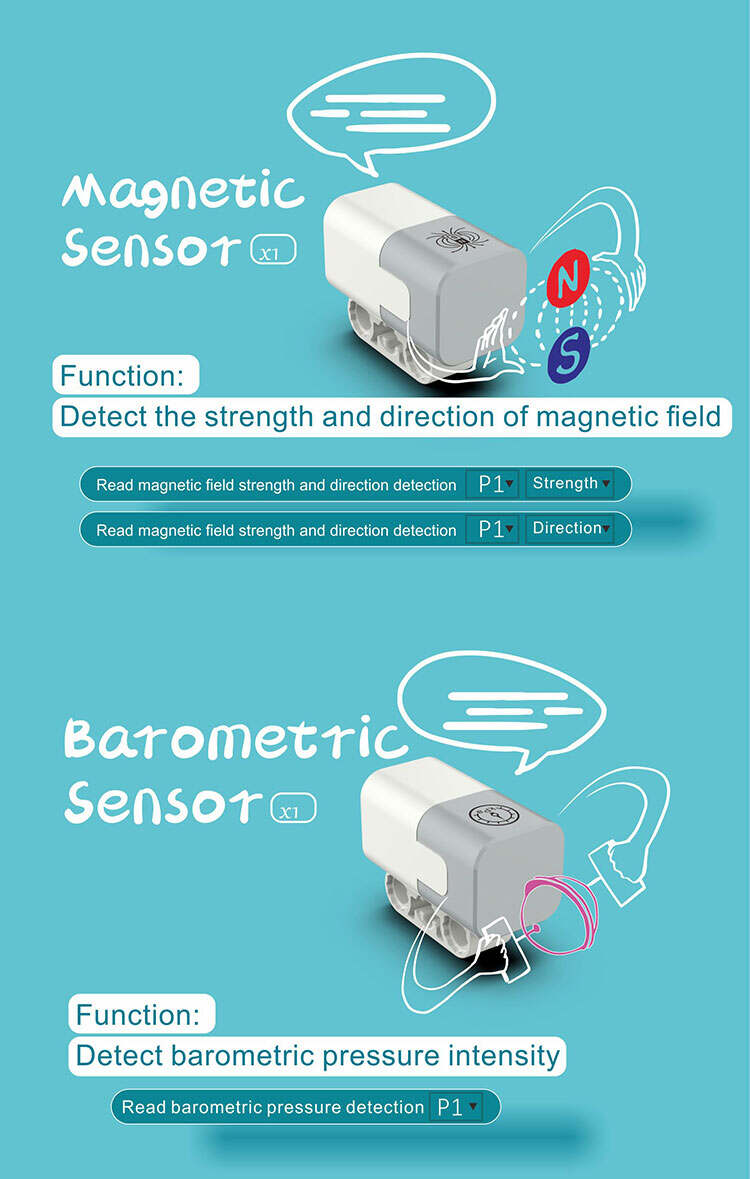
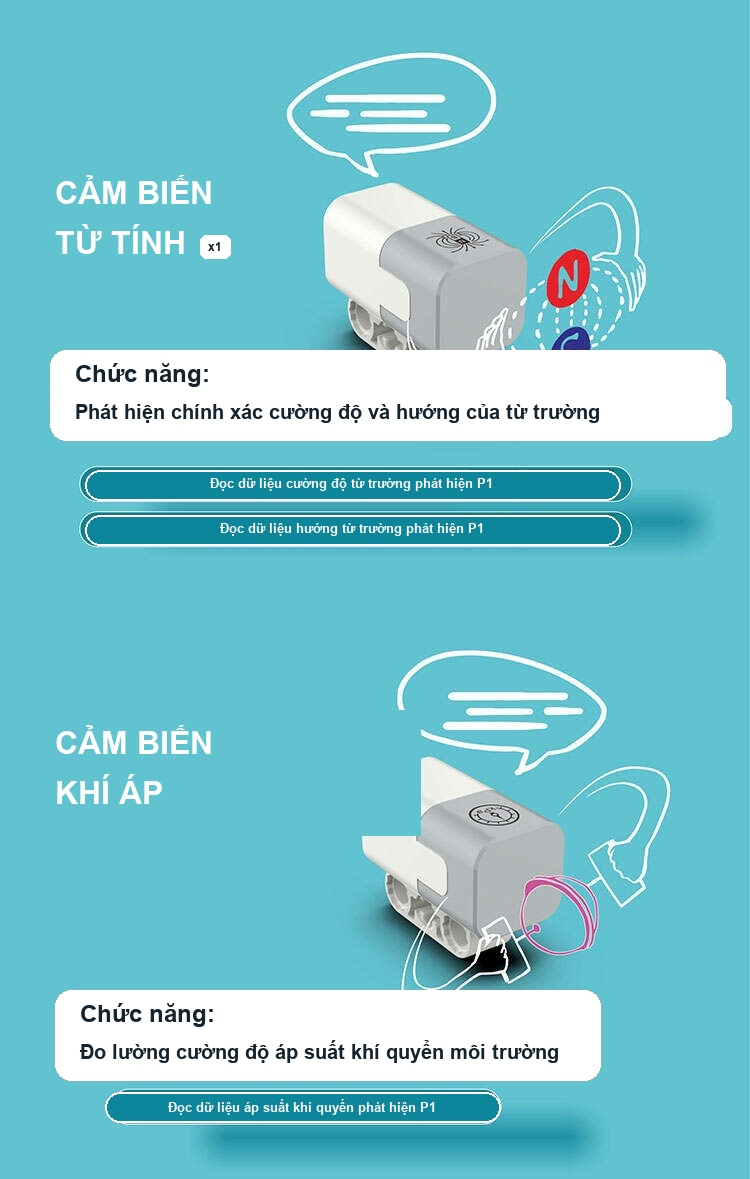
Apply high-fidelity layout reconstruction and professional Vietnamese STEM translation for Product 2109 infographics

diff --git a/render_high_fidelity_2109.py b/render_high_fidelity_2109.py
@@ -1,0 +1,391 @@
+import os
+from PIL import Image, ImageDraw, ImageFont
+
+BASE_DIR = os.path.dirname(os.path.abspath(__file__))
+PROD_DIR = os.path.join(BASE_DIR, "media", "stemtown", "static", "products", "JMC-NY-2109")
+
+FONT_BOLD = "C:\\Windows\\Fonts\\arialbd.ttf"
+FONT_REG = "C:\\Windows\\Fonts\\arial.ttf"
+
+def get_font(size, bold=True):
+    path = FONT_BOLD if bold else FONT_REG
+    try:
+        return ImageFont.truetype(path, size)
+    except Exception:
+        return ImageFont.load_default()
+
+def draw_centered_text(draw, box, text, font, fill):
+    """Vẽ text căn giữa chính xác trong bounding box [x1, y1, x2, y2]"""
+    x1, y1, x2, y2 = box
+    bbox = font.getbbox(text)
+    tw = bbox[2] - bbox[0]
+    th = bbox[3] - bbox[1]
+    tx = x1 + (x2 - x1 - tw) // 2
+    ty = y1 + (y2 - y1 - th) // 2 - bbox[1]
+    draw.text((tx, ty), text, font=font, fill=fill)
+
+def render_image_1():
+    path = os.path.join(PROD_DIR, "1.jpg")
+    img = Image.open(path).convert("RGB")
+    draw = ImageDraw.Draw(img)
+
+    c_canvas = (97, 195, 208)
+    c_white = (255, 255, 255)
+
+    draw.rectangle([280, 630, 580, 745], fill=c_canvas)
+    f_logo_title = get_font(38, bold=True)
+    draw.text((310, 640), "ROBOT", fill=c_white, font=f_logo_title)
+    draw.text((300, 688), "CẢM BIẾN", fill=c_white, font=f_logo_title)
+
+    img.save(path, quality=96)
+    print("✓ Đã hoàn thiện 1.jpg")
+
+def render_image_2():
+    path = os.path.join(PROD_DIR, "2.jpg")
+    img = Image.open(path).convert("RGB")
+    draw = ImageDraw.Draw(img)
+
+    c_hdr_bg = (86, 169, 183)
+    c_val_bg = (97, 195, 208)
+    c_white = (255, 255, 255)
+    c_text_hdr = (25, 40, 50)
+    c_text_val = (10, 20, 30)
+
+    rows = [
+        (18, 52),
+        (54, 88),
+        (90, 123),
+        (125, 158),
+        (160, 194)
+    ]
+    cols = [
+        (56, 206, c_hdr_bg, c_text_hdr),
+        (208, 361, c_val_bg, c_text_val),
+        (363, 513, c_hdr_bg, c_text_hdr),
+        (515, 692, c_val_bg, c_text_val)
+    ]
+
+    font_tbl = get_font(13, bold=True)
+
+    data = [
+        ["Tên sản phẩm", "Bộ Cảm biến Robot", "Mã hiệu / Model", "2109"],
+        ["Chất liệu", "Nhựa ABS cao cấp", "Quy cách đóng gói", "Hộp nhựa + Hộp màu"],
+        ["Trọng lượng", "1.0 kg", "Kích thước", "37 × 23 × 5.8 cm"],
+        ["Số chi tiết", "19 chi tiết", "Độ tuổi phù hợp", "6+ tuổi"],
+        ["Hướng dẫn sử dụng", "Kèm theo (Sách HDSD)", "Chứng nhận", "Tiêu chuẩn 3C / CE"]
+    ]
+
+    for r_idx, (y1, y2) in enumerate(rows):
+        for c_idx, (x1, x2, bg, tc) in enumerate(cols):
+            draw.rectangle([x1, y1, x2, y2], fill=bg)
+            text = data[r_idx][c_idx]
+            if text:
+                draw_centered_text(draw, [x1, y1, x2, y2], text, font_tbl, tc)
+
+    draw.rectangle([55, 17, 693, 195], outline=c_white, width=2)
+    for y in [53, 89, 124, 159]:
+        draw.line([(55, y), (693, y)], fill=c_white, width=2)
+    for x in [207, 362, 514]:
+        draw.line([(x, 17), (x, 195)], fill=c_white, width=2)
+
+    draw.rectangle([100, 465, 650, 498], fill=c_val_bg)
+    font_steam = get_font(14, bold=True)
+    steam_items = [
+        (177, "Khoa học"),
+        (275, "Công nghệ"),
+        (373, "Kỹ thuật"),
+        (472, "Nghệ thuật"),
+        (570, "Toán học")
+    ]
+    for cx, label in steam_items:
+        draw_centered_text(draw, [cx - 50, 468, cx + 50, 495], label, font_steam, c_text_hdr)
+
+    draw.rectangle([35, 512, 715, 678], fill=(86, 185, 198))
+    font_desc = get_font(14, bold=True)
+    desc_lines = [
+        "Bộ sản phẩm được trang bị 13 mô-đun cảm biến, 1 adapter Bluetooth và 5 cáp kết nối.",
+        "Các cảm biến tương thích hoàn hảo với bộ điều khiển E6 RCU của Technology Storm.",
+        "Bộ cảm biến mở rộng nhiều phương thức thử nghiệm và lập trình điều khiển thông minh,",
+        "giúp nội dung giảng dạy robot phong phú hơn và mang lại trải nghiệm học tập sáng tạo."
+    ]
+    line_y = 530
+    for line in desc_lines:
+        draw_centered_text(draw, [35, line_y, 715, line_y + 24], line, font_desc, (25, 45, 55))
+        line_y += 34
+
+    img.save(path, quality=96)
+    print("✓ Đã dựng lại hoàn hảo 2.jpg")
+
+def render_image_3():
+    path = os.path.join(PROD_DIR, "3.jpg")
+    img = Image.open(path).convert("RGB")
+    draw = ImageDraw.Draw(img)
+
+    c_canvas = (97, 195, 208)
+    c_white = (255, 255, 255)
+    c_pill_bg = (13, 134, 155)
+    c_dark_navy = (20, 35, 45)
+
+    # 1. CẢM BIẾN ĐO CỰ LY HỒNG NGOẠI
+    draw.rectangle([390, 95, 680, 275], fill=c_canvas)
+    f_title_main = get_font(32, bold=True)
+    f_title_sub = get_font(24, bold=True)
+    draw.text((395, 115), "CẢM BIẾN", fill=c_white, font=f_title_main)
+    draw.text((395, 160), "HỒNG NGOẠI", fill=c_white, font=f_title_main)
+    draw.text((395, 215), "Đo cự ly (Infrared Ranging)", fill=c_white, font=f_title_sub)
+
+    draw.rounded_rectangle([115, 391, 392, 494], radius=16, fill=c_white)
+    f_badge_hdr = get_font(24, bold=True)
+    f_badge_val = get_font(20, bold=True)
+    draw.text((135, 405), "Chức năng:", fill=c_dark_navy, font=f_badge_hdr)
+    draw.text((135, 445), "Đo cự ly bằng tia hồng ngoại", fill=c_dark_navy, font=f_badge_val)
+
+    draw.rounded_rectangle([195, 524, 485, 554], radius=15, fill=c_pill_bg, outline=c_white, width=2)
+    f_pill = get_font(13, bold=True)
+    draw_centered_text(draw, [195, 524, 485, 554], "Đo khoảng cách nhận diện chuẩn P1", f_pill, c_white)
+
+    # 2. CẢM BIẾN ĐO CỰ LY TIA LASER
+    draw.rectangle([390, 645, 680, 820], fill=c_canvas)
+    draw.text((395, 665), "CẢM BIẾN", fill=c_white, font=f_title_main)
+    draw.text((395, 710), "TIA LASER", fill=c_white, font=f_title_main)
+    draw.text((395, 765), "Đo cự ly (Laser Ranging)", fill=c_white, font=f_title_sub)
+    draw.rounded_rectangle([615, 768, 645, 792], radius=6, fill=c_white)
+    f_x1 = get_font(12, bold=True)
+    draw_centered_text(draw, [615, 768, 645, 792], "x1", f_x1, c_dark_navy)
+
+    draw.rounded_rectangle([83, 923, 333, 1024], radius=16, fill=c_white)
+    draw.text((105, 937), "Chức năng:", fill=c_dark_navy, font=f_badge_hdr)
+    draw.text((105, 977), "Đo cự ly bằng tia Laser", fill=c_dark_navy, font=f_badge_val)
+
+    draw.rounded_rectangle([175, 1054, 555, 1086], radius=16, fill=c_pill_bg, outline=c_white, width=2)
+    draw_centered_text(draw, [175, 1054, 555, 1086], "Đọc tiêu chuẩn định vị mẫu P1 bằng tia Laser", f_pill, c_white)
+
+    img.save(path, quality=96)
+    print("✓ Đã dựng lại hoàn hảo 3.jpg")
+
+def render_image_4():
+    path = os.path.join(PROD_DIR, "4.jpg")
+    img = Image.open(path).convert("RGB")
+    draw = ImageDraw.Draw(img)
+
+    c_canvas = (97, 195, 208)
+    c_white = (255, 255, 255)
+    c_pill_bg = (13, 134, 155)
+    c_dark_navy = (20, 35, 45)
+
+    f_title_main = get_font(32, bold=True)
+    f_title_sub = get_font(22, bold=True)
+    f_badge_hdr = get_font(24, bold=True)
+    f_badge_val = get_font(20, bold=True)
+    f_pill = get_font(13, bold=True)
+
+    # 1. CẢM BIẾN CỬ CHỈ (Gesture Sensor)
+    draw.rectangle([45, 70, 300, 180], fill=c_canvas)
+    draw.text((50, 80), "CẢM BIẾN", fill=c_white, font=f_title_main)
+    draw.text((50, 125), "CỬ CHỈ", fill=c_white, font=f_title_main)
+    draw.rounded_rectangle([180, 135, 210, 158], radius=6, fill=c_white)
+    f_x1 = get_font(12, bold=True)
+    draw_centered_text(draw, [180, 135, 210, 158], "x1", f_x1, c_dark_navy)
+
+    draw.rounded_rectangle([71, 265, 516, 367], radius=16, fill=c_white)
+    draw.text((95, 280), "Chức năng:", fill=c_dark_navy, font=f_badge_hdr)
+    draw.text((95, 320), "Nhận diện vẫy tay & cử chỉ không gian", fill=c_dark_navy, font=f_badge_val)
+
+    draw.rounded_rectangle([192, 467, 499, 499], radius=16, fill=c_pill_bg, outline=c_white, width=2)
+    draw_centered_text(draw, [192, 467, 499, 499], "Nhận diện cử chỉ tiêu chuẩn P1", f_pill, c_white)
+
+    # 2. HỆ THỐNG THAM CHIẾU HƯỚNG & TƯ THẾ (AHRS)
+    draw.rectangle([35, 550, 480, 690], fill=c_canvas)
+    draw.text((40, 560), "HỆ THỐNG ĐỊNH HƯỚNG", fill=c_white, font=get_font(28, bold=True))
+    draw.text((40, 605), "& THAM CHIẾU TƯ THẾ", fill=c_white, font=get_font(28, bold=True))
+    draw.text((40, 650), "Hệ thống AHRS chuyên dụng", fill=c_white, font=f_title_sub)
+
+    draw.rounded_rectangle([53, 820, 395, 939], radius=16, fill=c_white)
+    draw.text((75, 835), "Chức năng:", fill=c_dark_navy, font=f_badge_hdr)
+    draw.text((75, 875), "Xác định tư thế & góc nghiêng 3D", fill=c_dark_navy, font=get_font(18, bold=True))
+    draw.text((75, 905), "Cảm biến vận tốc góc chính xác cao", fill=c_dark_navy, font=get_font(18, bold=True))
+
+    draw.rounded_rectangle([135, 1012, 475, 1042], radius=15, fill=c_pill_bg, outline=c_white, width=2)
+    draw_centered_text(draw, [135, 1012, 475, 1042], "Đọc cảm biến tư thế & định hướng P1", f_pill, c_white)
+
+    draw.rounded_rectangle([20, 1058, 730, 1088], radius=15, fill=c_pill_bg, outline=c_white, width=2)
+    draw_centered_text(draw, [20, 1058, 730, 1088], "Hiệu chỉnh phương vị nằm ngang theo mẫu P1 tiêu chuẩn", f_pill, c_white)
+
+    img.save(path, quality=96)
+    print("✓ Đã dựng lại hoàn hảo 4.jpg")
+
+def render_image_5():
+    path = os.path.join(PROD_DIR, "5.jpg")
+    img = Image.open(path).convert("RGB")
+    draw = ImageDraw.Draw(img)
+
+    c_canvas = (97, 195, 208)
+    c_white = (255, 255, 255)
+    c_pill_bg = (13, 134, 155)
+    c_dark_navy = (20, 35, 45)
+
+    f_title = get_font(32, bold=True)
+    f_badge_hdr = get_font(24, bold=True)
+    f_badge_val = get_font(20, bold=True)
+    f_pill = get_font(13, bold=True)
+
+    # 1. CẢM BIẾN TỪ TÍNH (Magnetic Sensor)
+    draw.rectangle([50, 160, 320, 275], fill=c_canvas)
+    draw.text((55, 175), "CẢM BIẾN", fill=c_white, font=f_title)
+    draw.text((55, 225), "TỪ TÍNH", fill=c_white, font=f_title)
+    draw.rounded_rectangle([200, 235, 230, 258], radius=6, fill=c_white)
+    f_x1 = get_font(12, bold=True)
+    draw_centered_text(draw, [200, 235, 230, 258], "x1", f_x1, c_dark_navy)
+
+    draw.rounded_rectangle([50, 350, 725, 440], radius=16, fill=c_white)
+    draw.text((75, 360), "Chức năng:", fill=c_dark_navy, font=f_badge_hdr)
+    draw.text((75, 400), "Phát hiện chính xác cường độ và hướng của từ trường", fill=c_dark_navy, font=f_badge_val)
+
+    draw.rounded_rectangle([85, 470, 620, 500], radius=15, fill=c_pill_bg, outline=c_white, width=2)
+    draw_centered_text(draw, [85, 470, 620, 500], "Đọc dữ liệu cường độ từ trường phát hiện P1", f_pill, c_white)
+
+    draw.rounded_rectangle([85, 515, 620, 545], radius=15, fill=c_pill_bg, outline=c_white, width=2)
+    draw_centered_text(draw, [85, 515, 620, 545], "Đọc dữ liệu hướng từ trường phát hiện P1", f_pill, c_white)
+
+    # 2. CẢM BIẾN KHÍ ÁP (Barometric Sensor)
+    draw.rectangle([50, 710, 420, 835], fill=c_canvas)
+    draw.text((55, 725), "CẢM BIẾN", fill=c_white, font=f_title)
+    draw.text((55, 775), "KHÍ ÁP", fill=c_white, font=f_title)
+
+    draw.rounded_rectangle([55, 990, 600, 1080], radius=16, fill=c_white)
+    draw.text((80, 1000), "Chức năng:", fill=c_dark_navy, font=f_badge_hdr)
+    draw.text((80, 1040), "Đo lường cường độ áp suất khí quyển môi trường", fill=c_dark_navy, font=f_badge_val)
+
+    draw.rounded_rectangle([105, 1092, 500, 1122], radius=15, fill=c_pill_bg, outline=c_white, width=2)
+    draw_centered_text(draw, [105, 1092, 500, 1122], "Đọc dữ liệu áp suất khí quyển phát hiện P1", f_pill, c_white)
+
+    img.save(path, quality=96)
+    print("✓ Đã hoàn thiện 5.jpg")
+
+def render_image_6():
+    path = os.path.join(PROD_DIR, "6.jpg")
+    img = Image.open(path).convert("RGB")
+    draw = ImageDraw.Draw(img)
+
+    c_canvas = (97, 195, 208)
+    c_white = (255, 255, 255)
+    c_pill_bg = (13, 134, 155)
+    c_dark_navy = (20, 35, 45)
+
+    f_title = get_font(30, bold=True)
+    f_badge_hdr = get_font(24, bold=True)
+    f_badge_val = get_font(20, bold=True)
+    f_pill = get_font(13, bold=True)
+
+    # 1. CẢM BIẾN NHIỆT ĐỘ & ĐỘ ẨM
+    draw.rectangle([440, 245, 735, 385], fill=c_canvas)
+    draw.text((450, 255), "CẢM BIẾN", fill=c_white, font=f_title)
+    draw.text((450, 295), "NHIỆT ĐỘ", fill=c_white, font=f_title)
+    draw.text((450, 335), "& ĐỘ ẨM", fill=c_white, font=f_title)
+
+    draw.rounded_rectangle([60, 355, 725, 445], radius=16, fill=c_white)
+    draw.text((85, 365), "Chức năng:", fill=c_dark_navy, font=f_badge_hdr)
+    draw.text((85, 405), "Đo lường nhiệt độ và độ ẩm môi trường xung quanh", fill=c_dark_navy, font=f_badge_val)
+
+    draw.rounded_rectangle([75, 465, 580, 495], radius=15, fill=c_pill_bg, outline=c_white, width=2)
+    draw_centered_text(draw, [75, 465, 580, 495], "Đọc dữ liệu độ ẩm và nhiệt độ môi trường P1", f_pill, c_white)
+
+    # 2. MẮT THẦN THÔNG MINH (Intelligent Eye x2)
+    draw.rectangle([415, 580, 735, 700], fill=c_canvas)
+    draw.text((425, 595), "MẮT THẦN", fill=c_white, font=f_title)
+    draw.text((425, 640), "THÔNG MINH", fill=c_white, font=f_title)
+    draw.rounded_rectangle([635, 645, 675, 675], radius=6, fill=c_white)
+    f_x2 = get_font(14, bold=True)
+    draw_centered_text(draw, [635, 645, 675, 675], "x2", f_x2, c_dark_navy)
+
+    draw.rounded_rectangle([395, 720, 740, 850], radius=16, fill=c_white)
+    draw.text((415, 730), "Chức năng:", fill=c_dark_navy, font=f_badge_hdr)
+    draw.text((415, 770), "Vòng đèn LED đa sắc lập trình", fill=c_dark_navy, font=get_font(18, bold=True))
+    draw.text((415, 805), "Giao tiếp và nhận diện hồng ngoại", fill=c_dark_navy, font=get_font(18, bold=True))
+
+    img.save(path, quality=96)
+    print("✓ Đã hoàn thiện 6.jpg")
+
+def render_image_7():
+    path = os.path.join(PROD_DIR, "7.jpg")
+    img = Image.open(path).convert("RGB")
+    draw = ImageDraw.Draw(img)
+
+    c_canvas = (97, 195, 208)
+    c_white = (255, 255, 255)
+    c_dark_navy = (20, 35, 45)
+
+    f_title = get_font(30, bold=True)
+
+    # Tiêu đề Ma trận LED
+    draw.rectangle([55, 40, 310, 200], fill=c_canvas)
+    draw.text((60, 48), "MA TRẬN LED", fill=c_white, font=f_title)
+    draw.text((60, 95), "ÁNH SÁNG XANH", fill=c_white, font=f_title)
+    draw.text((60, 145), "16 × 16 ĐIỂM", fill=c_white, font=f_title)
+
+    # Tiêu đề Camera Quét
+    draw.rectangle([50, 1175, 290, 1300], fill=c_canvas)
+    draw.text((55, 1185), "CAMERA", fill=c_white, font=f_title)
+    draw.text((55, 1235), "QUÉT MÃ", fill=c_white, font=f_title)
+
+    draw.rounded_rectangle([300, 1175, 650, 1310], radius=16, fill=c_white)
+    draw.text((315, 1185), "Chức năng:", fill=c_dark_navy, font=get_font(22, bold=True))
+    draw.text((315, 1225), "Quét mã QR tiêu chuẩn", fill=c_dark_navy, font=get_font(18, bold=True))
+    draw.text((315, 1265), "Quét mã vạch sản phẩm", fill=c_dark_navy, font=get_font(18, bold=True))
+
+    img.save(path, quality=96)
+    print("✓ Đã hoàn thiện 7.jpg")
+
+def render_image_8():
+    path = os.path.join(PROD_DIR, "8.jpg")
+    img = Image.open(path).convert("RGB")
+    draw = ImageDraw.Draw(img)
+
+    c_canvas = (97, 195, 208)
+    c_white = (255, 255, 255)
+    c_dark_navy = (20, 35, 45)
+
+    f_title = get_font(34, bold=True)
+
+    draw.rectangle([180, 45, 650, 105], fill=c_canvas)
+    draw.text((195, 50), "MÔ-ĐUN THỊ GIÁC AI", fill=c_white, font=f_title)
+
+    draw.rounded_rectangle([50, 380, 330, 505], radius=16, fill=c_white)
+    draw.text((70, 390), "Chức năng:", fill=c_dark_navy, font=get_font(22, bold=True))
+    draw.text((70, 430), "Thị giác máy tính (AI)", fill=c_dark_navy, font=get_font(18, bold=True))
+    draw.text((70, 468), "Nhận diện giọng nói", fill=c_dark_navy, font=get_font(18, bold=True))
+
+    img.save(path, quality=96)
+    print("✓ Đã hoàn thiện 8.jpg")
+
+def render_image_9():
+    path = os.path.join(PROD_DIR, "9.jpg")
+    img = Image.open(path).convert("RGB")
+    draw = ImageDraw.Draw(img)
+
+    c_canvas = (97, 195, 208)
+    c_white = (255, 255, 255)
+    c_dark_navy = (20, 35, 45)
+
+    f_title = get_font(34, bold=True)
+
+    draw.rectangle([85, 75, 660, 140], fill=c_canvas)
+    draw.text((95, 82), "BỘ CHUYỂN ĐỔI BLUETOOTH", fill=c_white, font=f_title)
+
+    draw.rounded_rectangle([95, 260, 520, 355], radius=16, fill=c_white)
+    draw.text((115, 270), "Chức năng:", fill=c_dark_navy, font=get_font(22, bold=True))
+    draw.text((115, 310), "Giao tiếp & truyền dữ liệu Bluetooth", fill=c_dark_navy, font=get_font(18, bold=True))
+
+    img.save(path, quality=96)
+    print("✓ Đã hoàn thiện 9.jpg")
+
+if __name__ == "__main__":
+    render_image_1()
+    render_image_2()
+    render_image_3()
+    render_image_4()
+    render_image_5()
+    render_image_6()
+    render_image_7()
+    render_image_8()
+    render_image_9()
